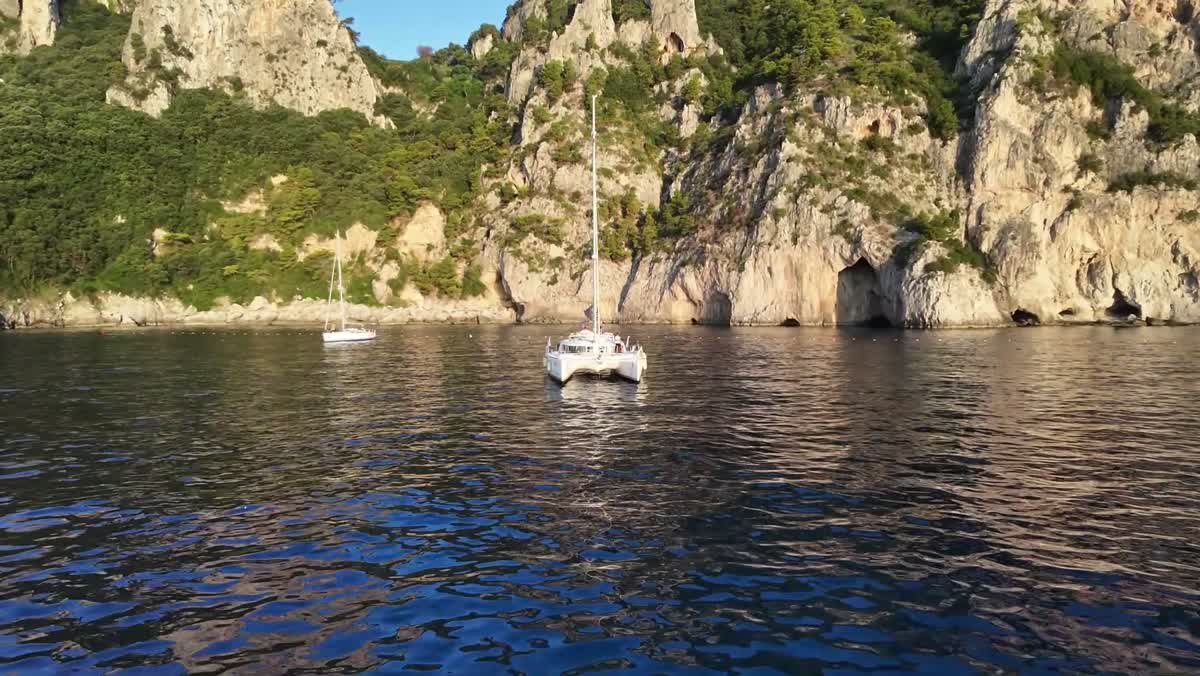
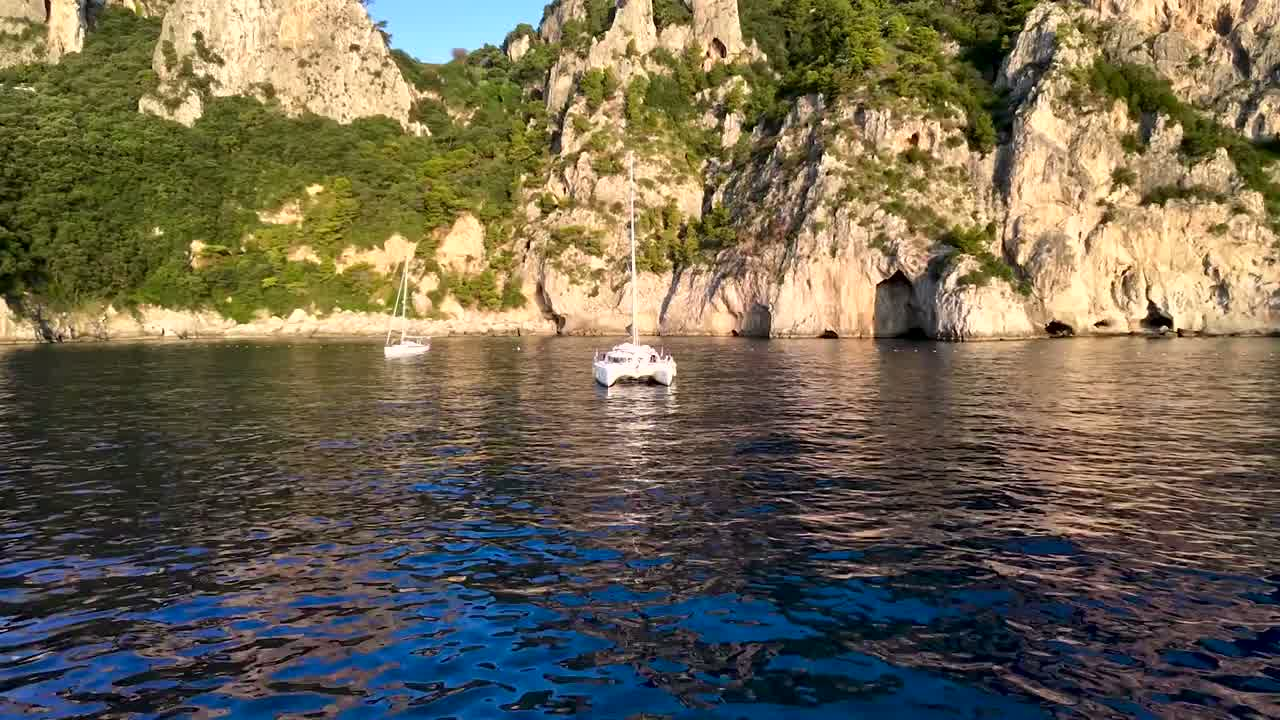
Portfolio: video ricolorati (catamarano, sede, impianto solare) e nuove schede basilica EUR e Palazzo della Civiltà

diff --git a/public/assets/js/portfolio/catalogue.js b/public/assets/js/portfolio/catalogue.js
@@ -6,11 +6,14 @@ const WORKS = [
   { slot:'work-1', t:'Baia turchese', cat:'Mare e nautica', place:'Mare e nautica', context:'Una barca e il panorama della baia.', output:'Video orizzontale', video:true, dur:'0:09', shape:'wide', src:'1aefb782-ca14-4b48-89c5-5cc82158c654', poster:'assets/portfolio/baia-turchese-poster.jpg' },
   { slot:'work-2', t:'Ritratto sulla spiaggia', cat:'Persone e social', place:'Eventi e social', context:'Un ritratto sulla spiaggia, con inquadratura verticale.', output:'Video verticale', video:true, dur:'0:10', shape:'vert', src:'807bc22c-5b5f-490f-9a5f-9f556ab690aa', poster:'assets/portfolio/ritratto-spiaggia-poster.jpg' },
   { slot:'work-3', t:'Gommone in mare aperto', cat:'Mare e nautica', place:'Mare e nautica', context:'Gommone e paesaggio marino ripresi dall’alto.', output:'Video orizzontale', video:true, dur:'0:11', shape:'wide', src:'6f0051e3-53f5-4925-9bf6-39da2172a01c', poster:'assets/portfolio/gommone-mare-aperto-poster.jpg' },
-  { slot:'work-4', t:'Catamarano all’ancora', cat:'Mare e nautica', place:'Mare e nautica', context:'L’imbarcazione e lo spazio di mare che la circonda.', output:'Video orizzontale', video:true, dur:'0:10', shape:'wide', src:'057649d7-ea00-40aa-962b-bbd2f3cf08cd', poster:'assets/portfolio/catamarano-ancora-poster.jpg' },
+  { slot:'work-4', t:'Catamarano all’ancora', cat:'Mare e nautica', place:'Mare e nautica', context:'L’imbarcazione e lo spazio di mare che la circonda.', output:'Video orizzontale', video:true, dur:'0:11', shape:'wide', src:'ae9f87a4-940e-45d2-874f-bbf41b0ba7c0', poster:'assets/portfolio/catamarano-ancora-poster.jpg' },
   { slot:'work-5', t:'Corsa sulla spiaggia al tramonto', cat:'Sport', place:'Eventi e social', context:'Una corsa sulla spiaggia nella luce del tramonto.', output:'Video orizzontale', video:true, dur:'0:09', shape:'wide', src:'e719f204-0e9e-432e-8d74-b10e7491baa2', poster:'assets/portfolio/corsa-tramonto-poster.jpg' },
-  { slot:'work-6', t:'Sede aziendale e area logistica', cat:'Aziende', place:'Aziende e strutture', context:'Una vista d’insieme della sede e degli spazi logistici.', output:'Video orizzontale', video:true, dur:'0:15', shape:'wide', src:'30fee487-8334-44ce-9269-874f2bef6b5e', poster:'assets/portfolio/sede-aziendale-logistica-poster.jpg' },
-  { slot:'work-7', t:'Struttura commerciale con impianto solare', cat:'Strutture', place:'Aziende e strutture', context:'Edificio commerciale e impianto solare in copertura.', output:'Video orizzontale', video:true, dur:'0:14', shape:'wide', src:'afb6a3e9-793d-4150-8c97-ed95f0b96594', poster:'assets/portfolio/struttura-impianto-solare-poster.jpg' },
+  { slot:'work-6', t:'Sede aziendale e area logistica', cat:'Aziende', place:'Aziende e strutture', context:'Una vista d’insieme della sede e degli spazi logistici.', output:'Video orizzontale', video:true, dur:'0:16', shape:'wide', src:'f0a34da1-a013-47c2-9f83-ccef0ae3df7e', poster:'assets/portfolio/sede-aziendale-logistica-poster.jpg' },
+  { slot:'work-7', t:'Struttura commerciale con impianto solare', cat:'Strutture', place:'Aziende e strutture', context:'Edificio commerciale e impianto solare in copertura.', output:'Video orizzontale', video:true, dur:'0:15', shape:'wide', src:'0581b702-904f-4146-b93c-23a85b16a4ce', poster:'assets/portfolio/struttura-impianto-solare-poster.jpg' },
   { slot:'work-8', t:'Serata evento', cat:'Eventi', place:'Eventi e social', context:'La serata e il suo contesto, con riprese aeree.', output:'Video orizzontale', video:true, dur:'0:26', shape:'wide', src:'6231945d-bb20-41f8-9b2d-0b6c37eacde4', poster:'assets/portfolio/serata-evento-poster.jpg' },
+  { slot:'work-9', t:'Basilica dei Santi Pietro e Paolo, EUR', cat:'Monumenti', place:'Aziende e strutture', context:'La basilica e l’architettura del quartiere EUR, riprese dall’alto.', output:'Video orizzontale', video:true, dur:'0:26', shape:'wide', src:'8886e778-887c-48c2-99d3-b1e5b259b033', poster:'assets/portfolio/basilica-eur-poster.jpg' },
+  { slot:'work-10', t:'Palazzo della Civiltà, EUR', cat:'Monumenti', place:'Aziende e strutture', context:'Il Palazzo della Civiltà e le sue arcate, in ripresa verticale.', output:'Video verticale', video:true, dur:'0:09', shape:'vert', src:'855ae1c1-48df-4ed6-9613-aaecd7313d7b', poster:'assets/portfolio/palazzo-civilta-eur-poster.jpg' },
+  { slot:'work-11', t:'Palazzo della Civiltà, EUR (panoramica)', cat:'Monumenti', place:'Aziende e strutture', context:'Il Palazzo della Civiltà in una breve ripresa orizzontale.', output:'Video orizzontale', video:true, dur:'0:03', shape:'wide', src:'16fd6486-78e0-4435-88d4-f17620433cbd', poster:'assets/portfolio/palazzo-civilta-eur-orizzontale-poster.jpg' },
 ];
 const ASPECT = { wide:'16/9', tall:'4/5', vert:'9/16' };
 const LBW = { wide:'min(92vw, 136vh)', tall:'min(92vw, 60vh)', vert:'min(92vw, 42vh)' };

diff --git a/test/api-contratto.test.js b/test/api-contratto.test.js
@@ -180,7 +180,7 @@ test('mi piace: id non valido -> 400 (prima del controllo del metodo)', async ()
   reset();
   for (const req of [
     { method: 'GET', query: {} },
-    { method: 'GET', query: { id: 'work-9' } },
+    { method: 'GET', query: { id: 'work-12' } },
     { method: 'POST', body: { id: 'altro' } },
     { method: 'DELETE', body: {} },
   ]) {
@@ -190,9 +190,9 @@ test('mi piace: id non valido -> 400 (prima del controllo del metodo)', async ()
   }
 });
 
-test('mi piace: gli otto lavori sono ammessi', async () => {
+test('mi piace: i undici lavori sono ammessi', async () => {
   reset();
-  for (let i = 1; i <= 8; i++) {
+  for (let i = 1; i <= 11; i++) {
     const r = await invia(like, { method: 'GET', query: { id: 'work-' + i } });
     assert.equal(r.stato, 200);
     assert.deepEqual(r.corpo, { id: 'work-' + i, count: 0 });
